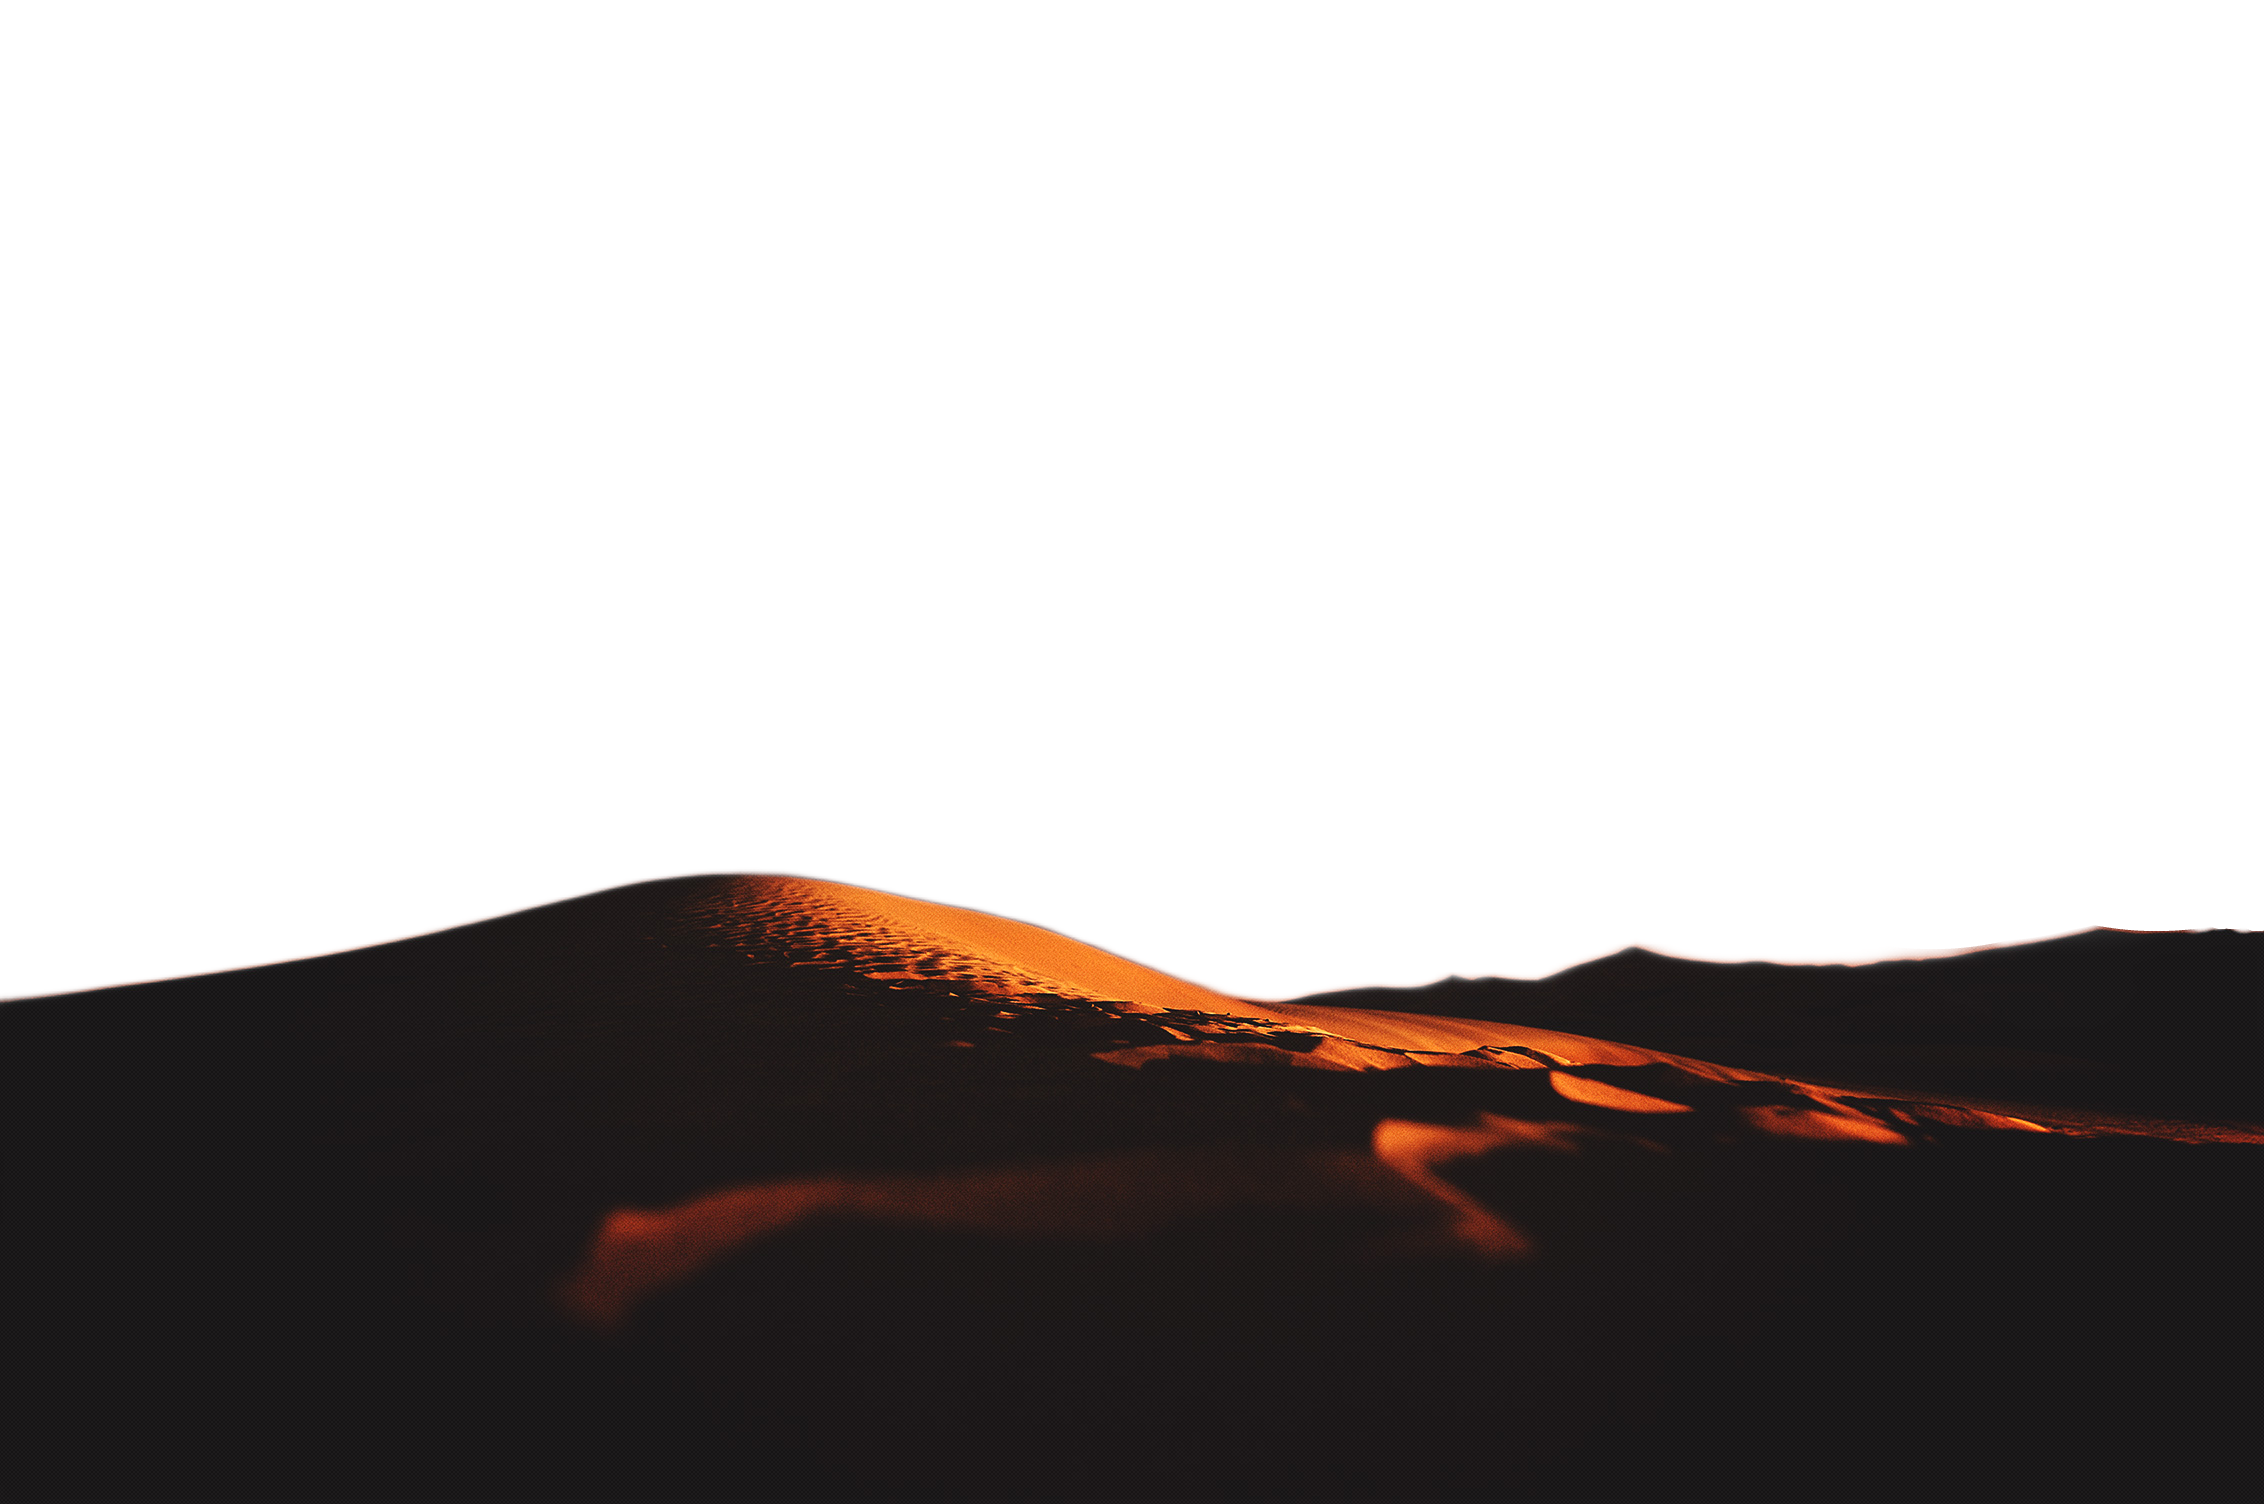
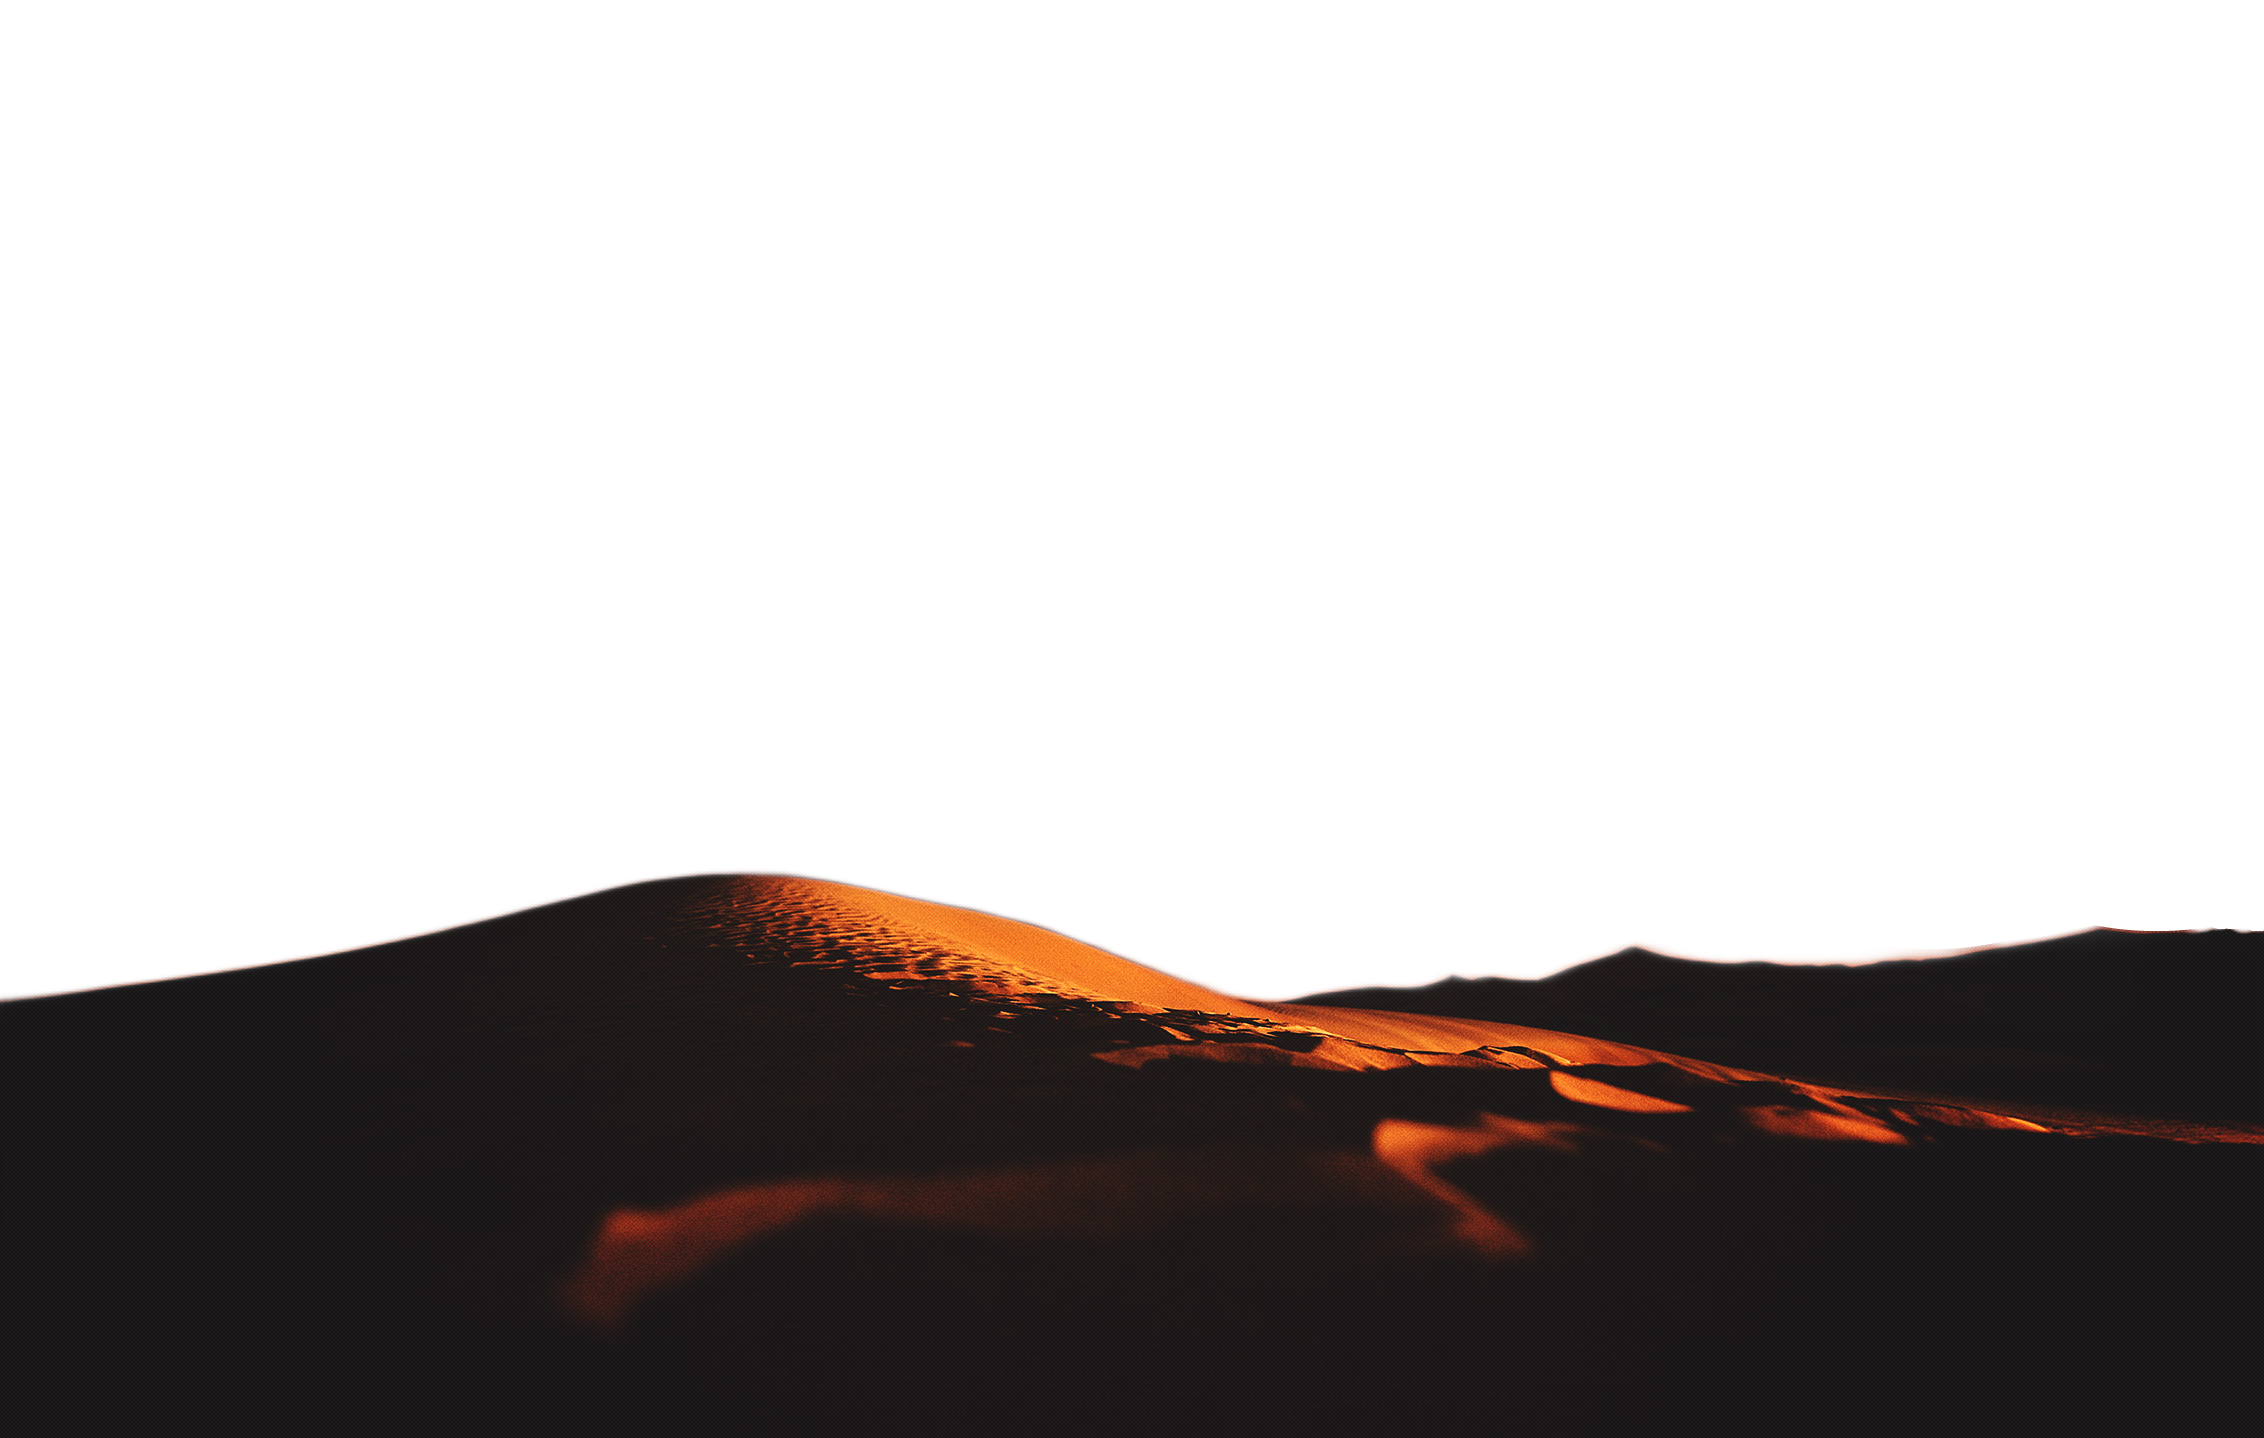
responsiveness

Changed region(s): [[0.0, 0.5814, 1.0, 0.8873], [0.2473, 0.765, 0.4638, 0.9179]]

diff --git a/src/components/hero.tsx b/src/components/hero.tsx
@@ -16,12 +16,12 @@ export const Hero = () => {
       className="h-screen bg-bottom bg-cover flex items-center justify-center"
       style={{
         backgroundImage: "url('/images/hero.png')",
-        backgroundPosition: "center -30vh",
+        backgroundPosition: "center bottom",
       }}
     >
       <div
         className={clsx(
-          "fixed text-white max-w-3xl text-center mb-60 transition-all ease-out"
+          "fixed text-white md:max-w-3xl sm:max-w-md max-w-xs text-center mb-60 transition-all ease-out"
         )}
         style={{
           opacity: !show ? 0 : 1 - scrollY / 40 / 0.2,
@@ -31,15 +31,8 @@ export const Hero = () => {
           transitionDuration: scrollY === 0 ? "2s" : "0.5s",
         }}
       >
-        <h1
-          className="font-libre"
-          style={{
-            fontSize: "5em",
-          }}
-        >
-          I'm Justin.
-        </h1>
-        <h2 className="text-2xl leading-loose">
+        <h1 className="font-libre md:text-[5em] text-[3em]">I'm Justin.</h1>
+        <h2 className="md:text-2xl text-lg leading-loose">
           Full-stack engineer turning bold ideas into beautiful, scalable
           products — from startup MVPs to enterprise AI platforms.
         </h2>
